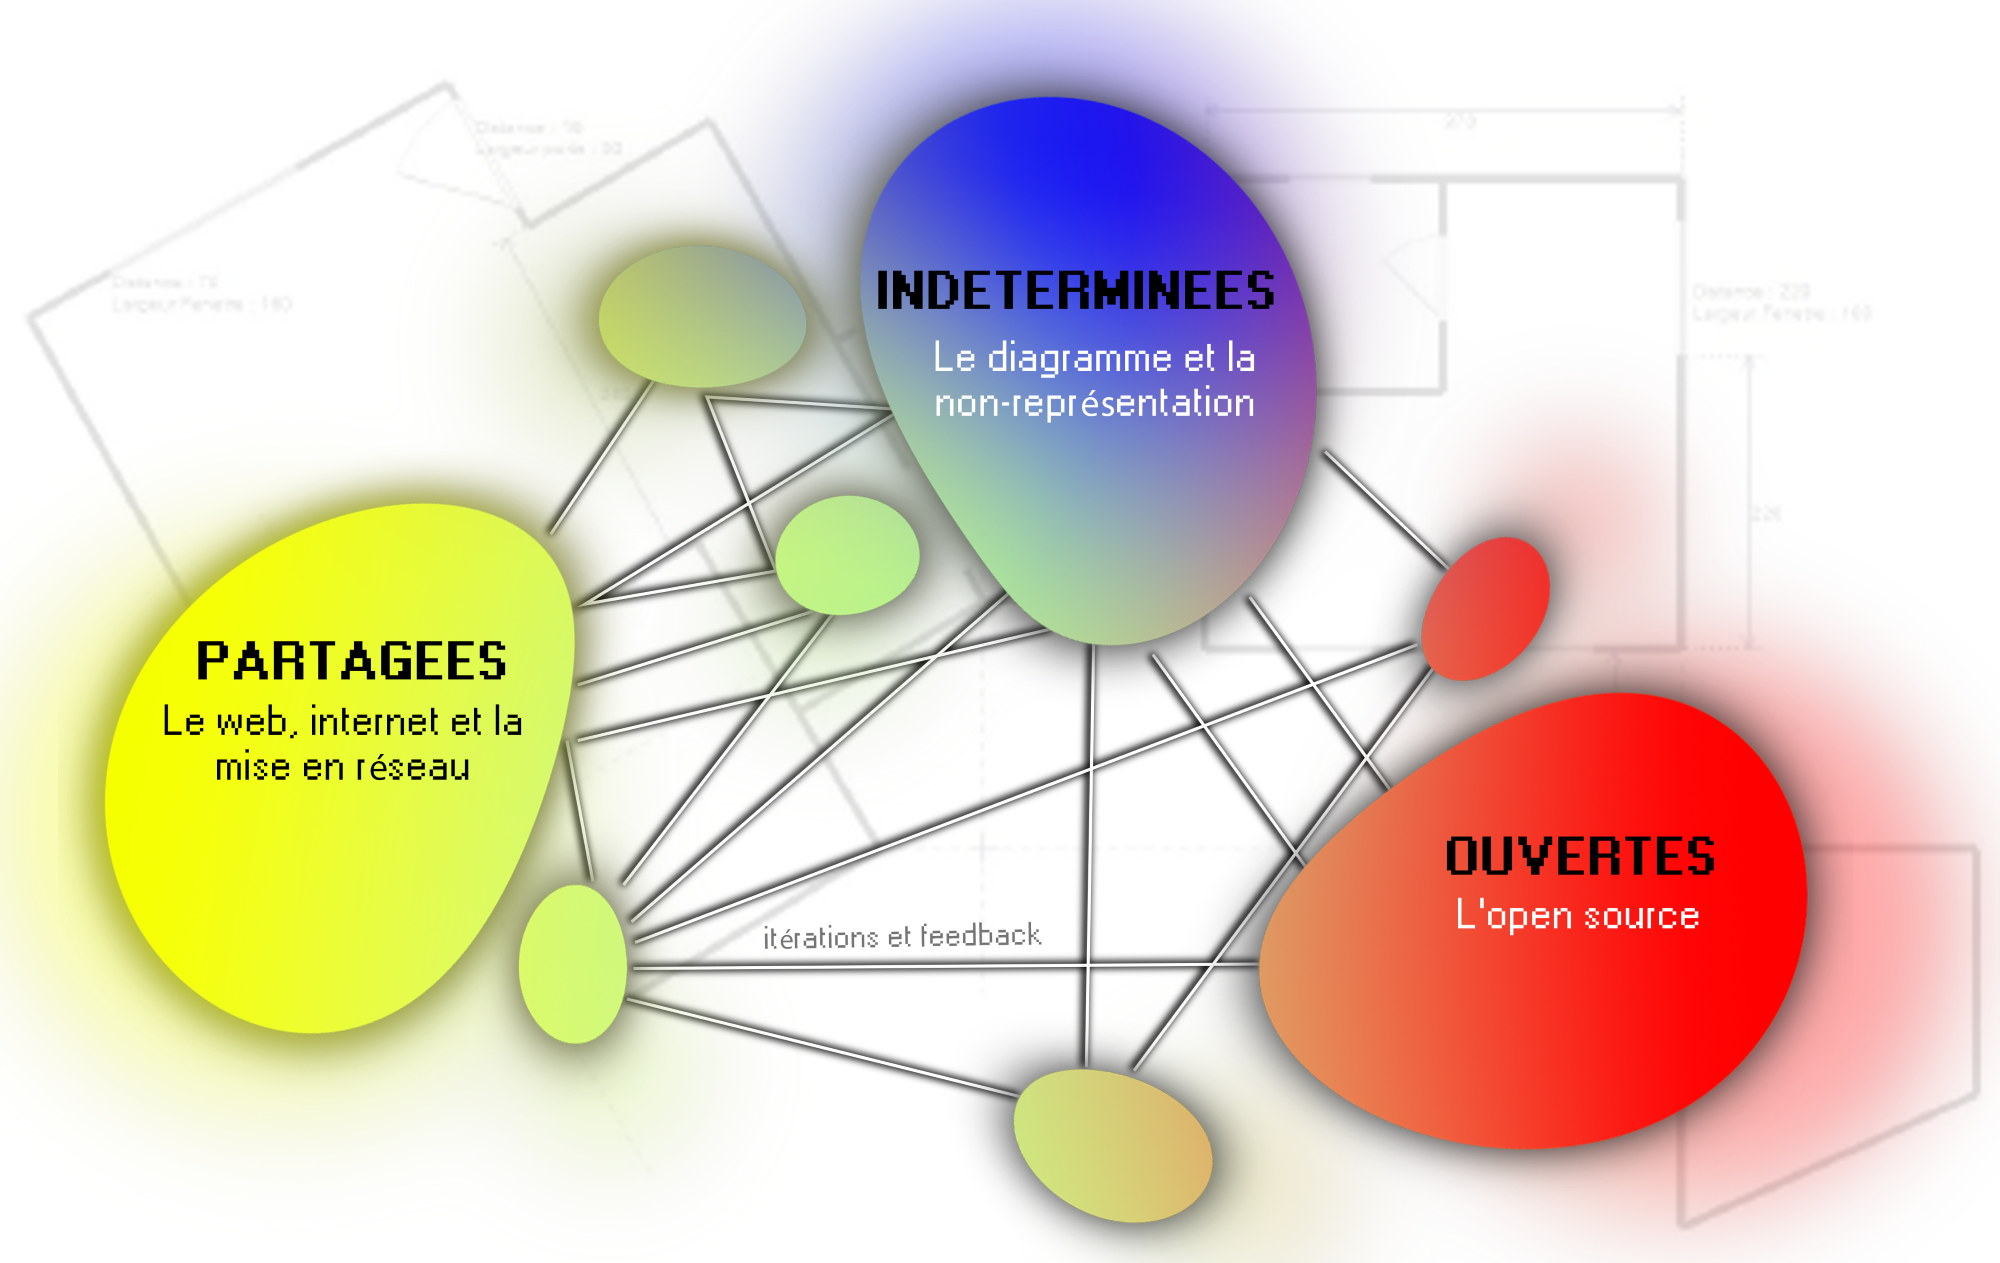
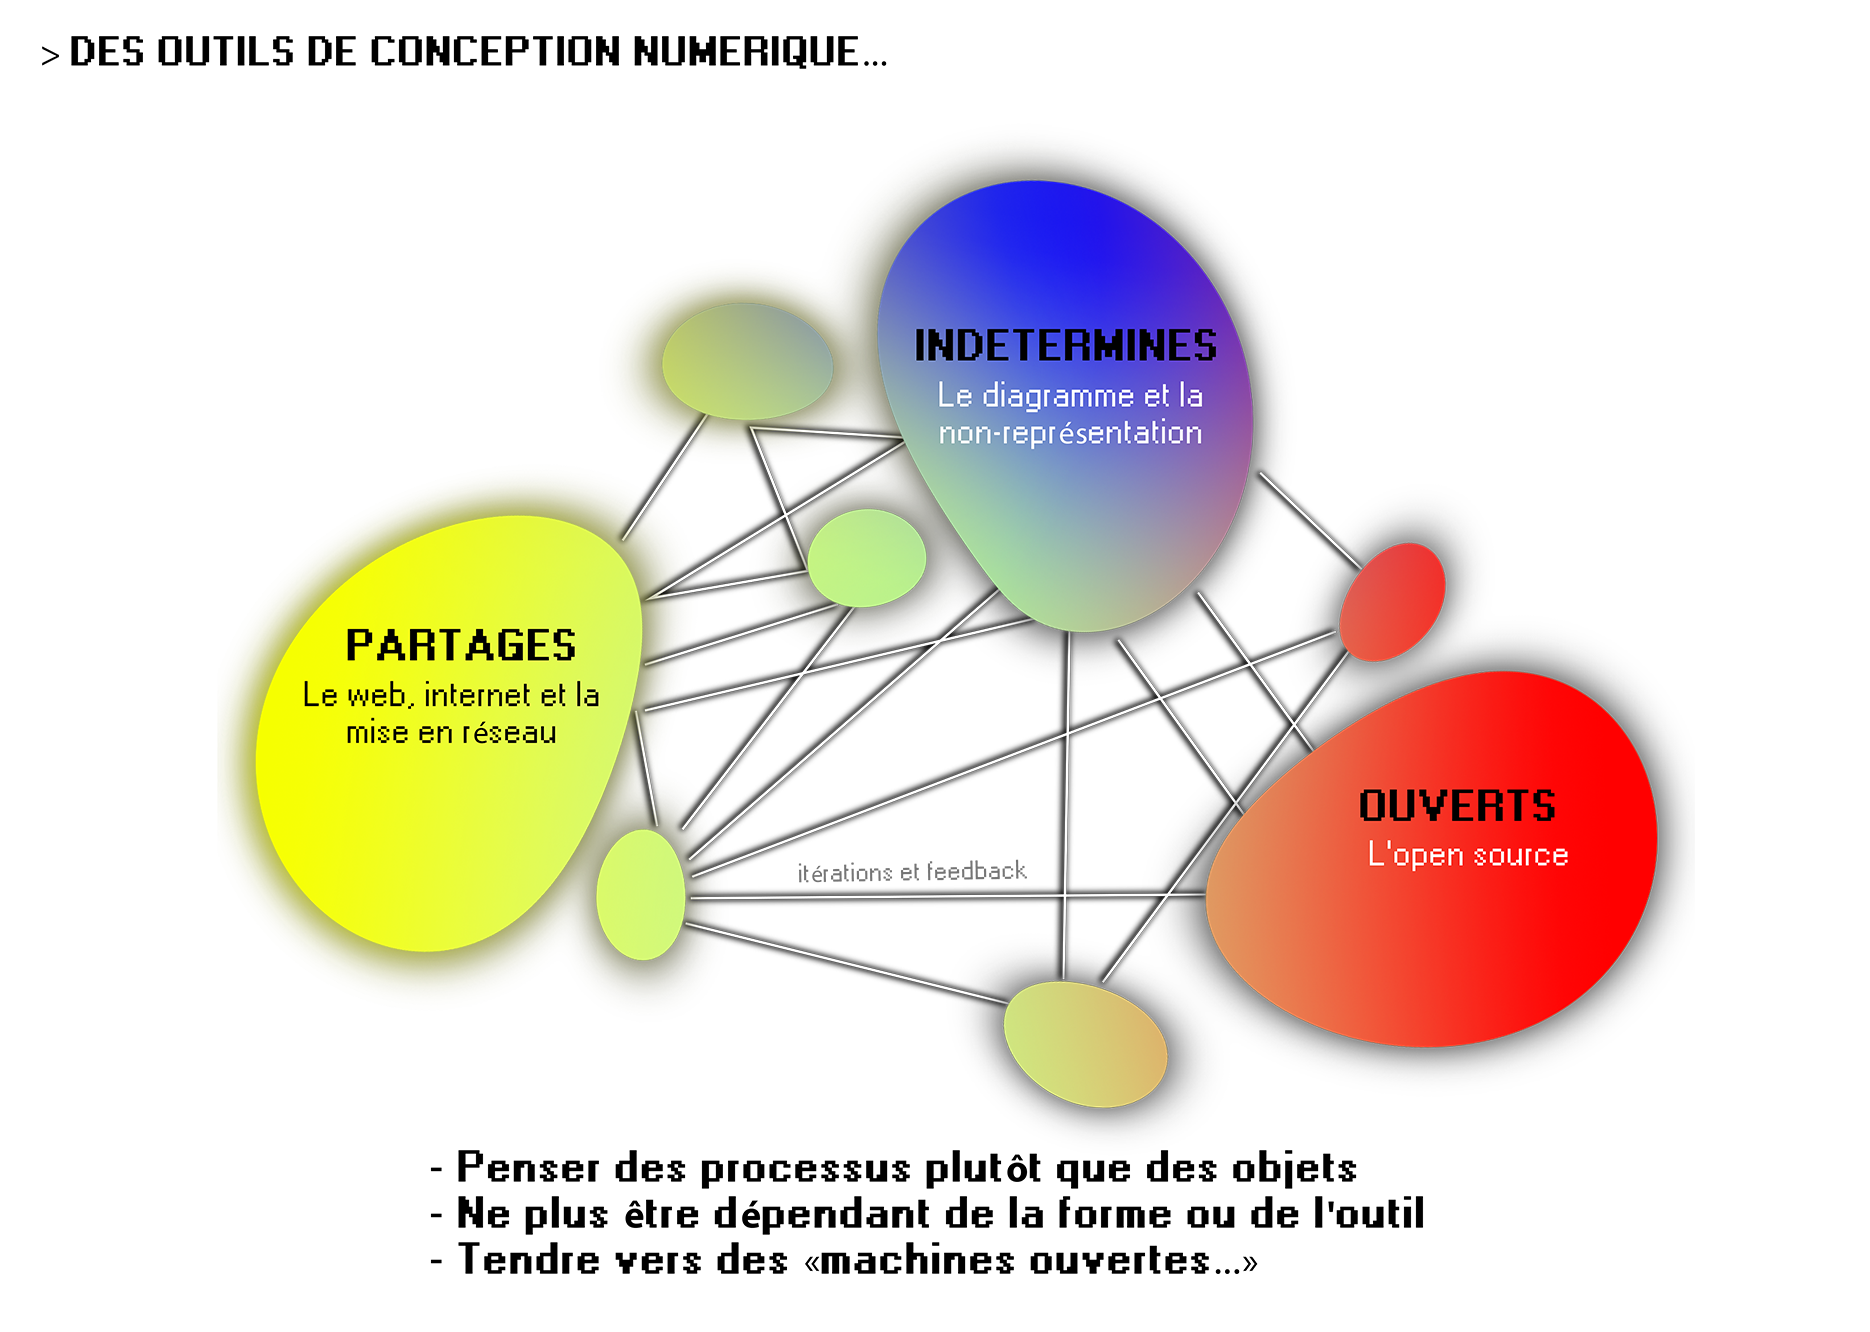
final

diff --git a/utopie3.html b/utopie3.html
@@ -22,12 +22,14 @@
 
     
     <div>
-        <p>Dans cette étude, je pose d'abord le constat que notre époque connaît des changements sociaux rapides. Ainsi, une architecture plus ouverte, favorisant l'autonomisation des individus, semble nécessaire pour relever les défis contemporains.  Cependant, les <b>outils de conception numérique en architecture </b>demeurent principalement centrée sur des processus formels de planification spatiale, où un concepteur conçoit une forme dans laquelle l'usager se conforme, suivant une approche dite top-down. Dans ce contexte, il est crucial de prendre en considération <b>l’outil numérique et ses évolutions</b>, qui offrent l’occasion de repenser nos outils et logiciels de modélisation. Il semble alors possible aujourd’hui d’imaginer, allant de pair avec une volonté d’autonomisation des individus, une approche différente des outils numériques de modélisation afin d’explorer de nouvelles possibilités. </br></br>
-            Je requestionne alors dans ce mémoire nos outils de conception numériques, et cherche à montrer en quoi ils constituent des outils <b>formels, d’automation et de centralisation, mettant de côté l’indéterminé.</b> </br></br>
-
-L'idée est de <b>théoriser une approche de la conception numérique qui favorise l’indétermination, le partage et l’ouverture</b>, permettant des itérations, transformant ainsi la conception architecturale numérique en un <b>processus collectif dynamique.</b> Pour cela, on pose alors l’hypothèse que la conception numérique aujourd’hui pourrait être développée selon d’autres modalités: de représentations abstraites, par le <b>diagramme</b>; de nouvelles structures, par l’usage d’<b>internet et du web</b>; et de nouveaux fonctionnements par l’<b>open source</b>, pour l’envisager comme un processus plutôt qu’un objet, facilitant ainsi la prise de pouvoir des individus dans la planification et la conception autonome de leurs espaces de vie. </br></br>
-
-On développe un <b>prototype en ligne, “la machine”</b> testant ces principes et liée à mon terrain d’étude spécifique, le tripode Messager. </p>
+        <p>En parralelle du travail de PFE, il m'a semblé important de questionner à la fois les modes de conception, mais également les outils utilisés par les architectes pour concevoir.
+            Actuellement, les outils de conception numérique en architecture demeurent principalement centrée sur des processus formels de planification spatiale, ou un concepteur concoit une forme dans laquelle l'usager se conforme, suivant une approche dite top-down. Dans ce contexte, il est crucial de prendre en considération l'outil numérique et ses évolutions, afin d'explorer de nouvelles possibilités, qui permettent l'appropriation habitante, et de tendre vers des utopies réalisables.</br></br>
+            
+            Je <b>requestionne</b> alors dans ce mémoire nos <b>outils de conception numériques</b>, et cherche à montrer en quoi ils constituent des outils formels, d'automation et de centralisation, mettant de coté l'indéterminé et l'usage habitant.</br></br>
+            
+            A partir d'un corpus de précédents et de logiciels expérimentaux crées dans els années 60 à 70, l'idée est de <b>théoriser une approche de la conception numérique</b> qui favorise l'indétermination, le partage et l'ouverture, permettant des itérations, transformant ainsi la conception architecturale numérique en un processus collectif dynamique. Pour cela, on pose alors l'hypothese que la conception numérique aujourd'hui pourrait être développée selon d'autres modalités: de <b>représentations abstraites</b>, par le diagramme; de nouvelles structures, par l'usage <b>d'internet et du web</b>; et de nouveaux fonctionnements par l'<b>open source</b>, pour l'envisager comme un processus plutot qu'un objet.</br></br>
+            
+            Je développerai, d'ici mai, un prototype en ligne, _la machine, testant ces principes et liée à mon terrain d'étude spécifique, le tripode Messager.</p>
     </div>
 
     <div>
@@ -52,12 +54,6 @@ On développe un <b>prototype en ligne, “la machine”</b> testant ces princip
 
     <div class="banner-container">
         <img src="utopie3\4.png" alt="Images types">
-    </div>
-
-    <div>
-        <h3>> Penser des processus plutôt que des objets  </h3>
-        <h3>> Ne plus être dépendant de la forme ou de l'outil </h3>
-        <h3>> Tendre vers des machines ouvertes </h3>
     </div>
 
     <div>

diff --git a/about.html b/about.html
@@ -35,7 +35,7 @@
     </h2>
 
     <div>
-        <p>> Portfolio crée et developpé par Iness Tkhayyare, disponible sur <a href="https://github.com/inesstkhay/Portfolio" target="_blank">GitHub</a>  </br>> Des beugs sont a prévoir, mais promis, j'y travaille encore! </p>
+        <p>> Portfolio crée et developpé par Iness Tkhayyare, disponible sur <a href="https://github.com/inesstkhay/Portfolio" target="_blank">GitHub</a>  </br>> Travail de développement et de mise en forme toujours en cours ! </p>
     </div>
 </footer>
 

diff --git a/utopie1.html b/utopie1.html
@@ -15,7 +15,7 @@
     </div>
 
     <div>
-        <h1>L'utopie de l'autoplanification dans un quartier prioritaire de Toulouse </h1>
+        <h1><a href="https://www.calameo.com/read/00762237929657ebd80e1" target="_blank"> L'utopie de l'autoplanification dans un quartier prioritaire de Toulouse </a> </h1>
         <h2>> Septembre 2023- Décembre 2023 - Master 2: Semestre 9  </h2>
         <h2>> Peut-on réinventer l'architecture en confiant la conception à des non-professionels ? </h2>
     </div>
